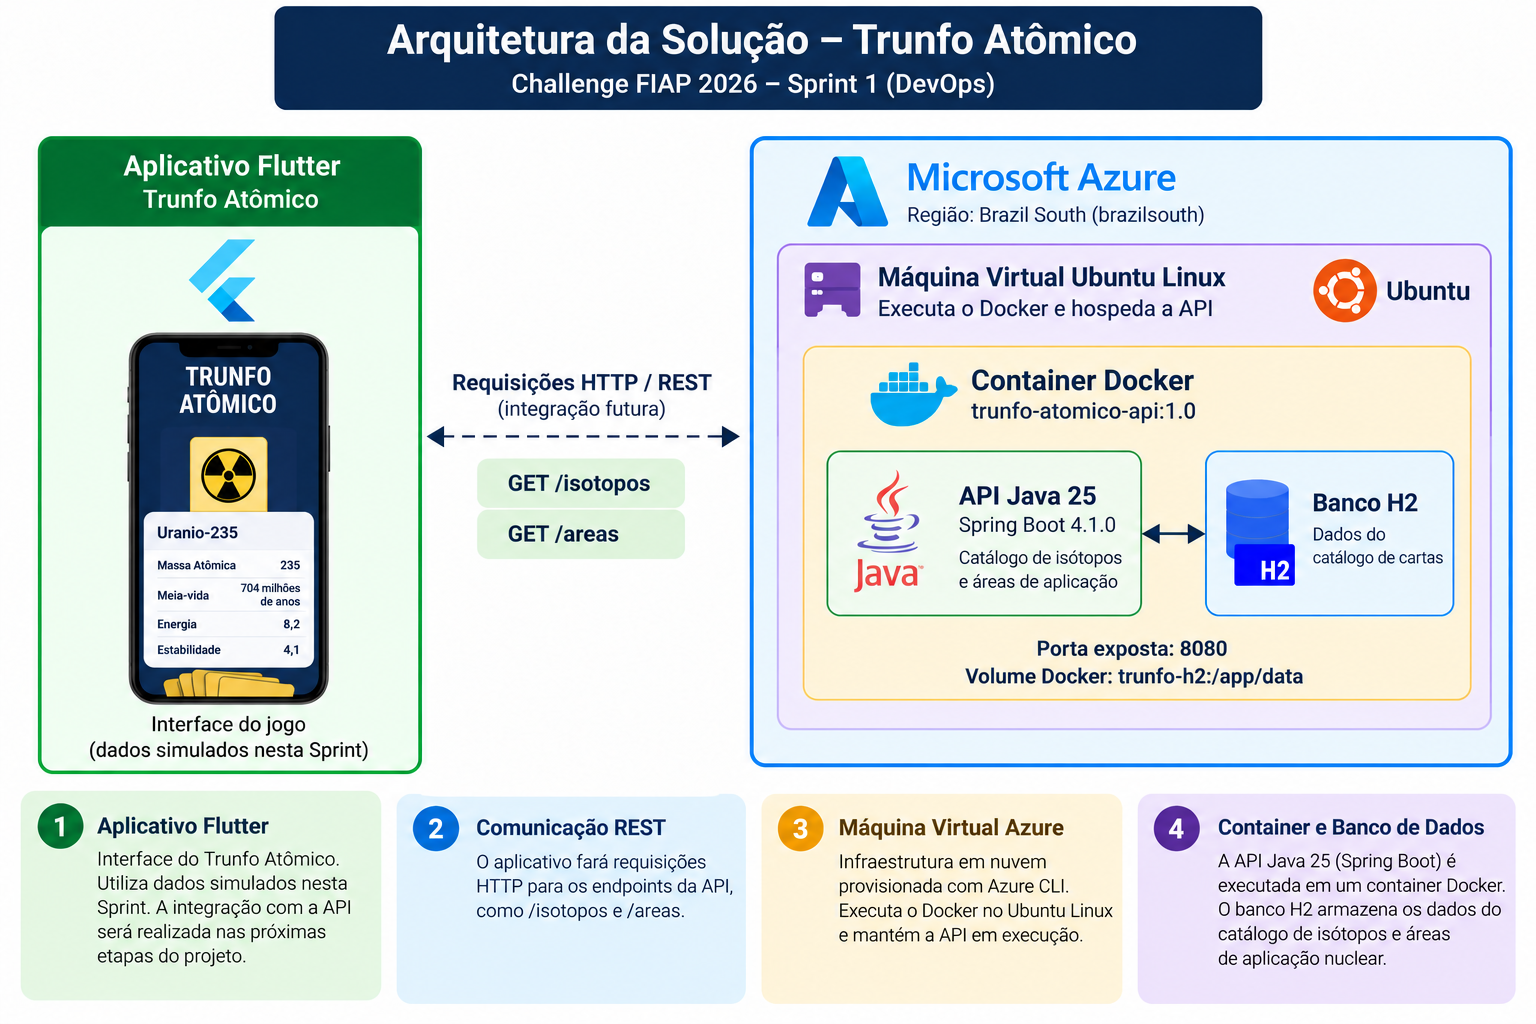
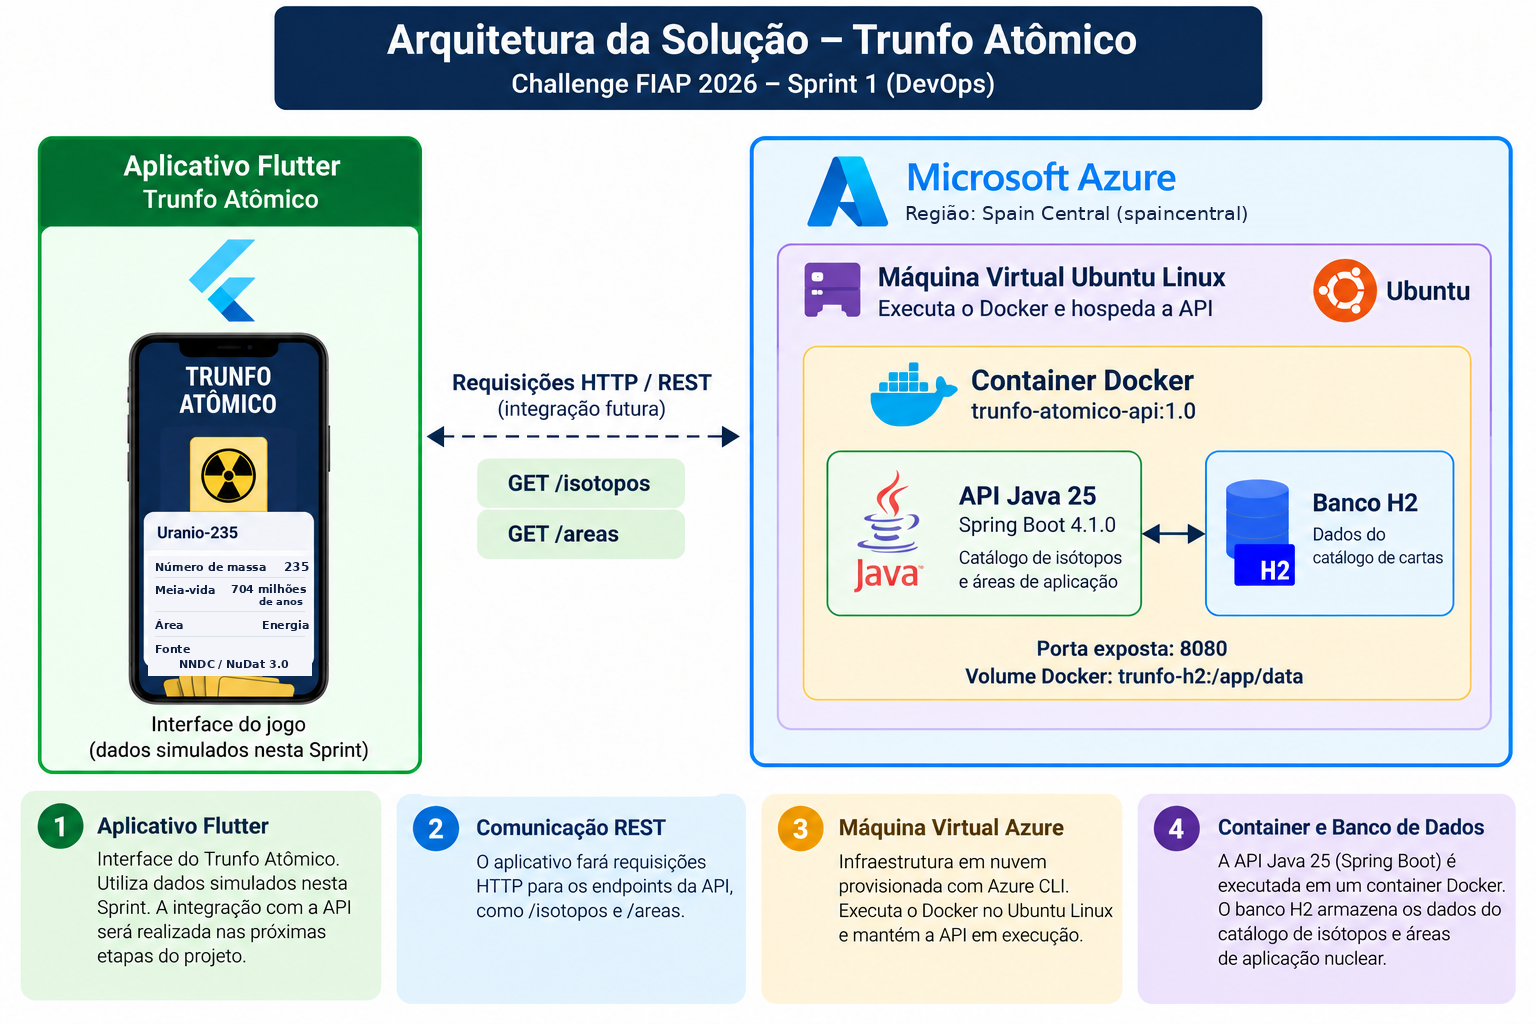
Finaliza documentacao DevOps e arquitetura corrigida

Changed region(s): [[0.0938, 0.5312, 0.2188, 0.6875], [0.5938, 0.1875, 0.8125, 0.2188]]

diff --git a/README.md b/README.md
@@ -1,84 +1,232 @@
-<img width="1891" height="1078" alt="image" src="https://github.com/user-attachments/assets/38181f44-462e-4ec5-94b7-f56212607426" /># Trunfo Atômico — DevOps
+# Trunfo Atômico — DevOps
 
-Challenge FIAP 2026 — Sprint 1
-
+**Challenge FIAP 2026 — Sprint 1**  
 **Parceiro:** AMAZUL / CTMSP  
-**Disciplina:** DevOps  
-**Responsável:** Thiago — RM: 567486
+**Disciplina:** DevOps Tools & Cloud Computing  
 **Turma:** 2TDSPR
+
+## Integrantes
+
+| Integrante | RM |
+|---|---|
+| Diego Paulino | 566841 |
+| Guilherme Dabul | 559901 |
+| Renan Lima | 568321 |
+| Ryan Mazali | 567168 |
+| Thiago Alexandre | 567486 |
 
 ## Sobre o projeto
 
-O Trunfo Atômico é um jogo educativo que utiliza cartas de isótopos radioativos para apresentar aplicações da tecnologia nuclear no cotidiano.
+O **Trunfo Atômico** é um jogo educativo de cartas sobre isótopos e aplicações da tecnologia nuclear. Nesta Sprint, a equipe desenvolveu componentes da solução e demonstrou a infraestrutura necessária para hospedar a API do catálogo.
 
-## Objetivo de DevOps
+A entrega de DevOps demonstra o **provisionamento de uma máquina virtual Linux no Microsoft Azure por Azure CLI**, a **containerização da API Java com Docker**, a disponibilização de endpoints REST por IP público e a **exclusão dos recursos** ao final dos testes.
 
-Demonstrar a containerização da API Java desenvolvida pelo grupo e sua execução em uma máquina virtual Ubuntu Linux hospedada no Microsoft Azure.
+## Arquitetura da solução
+
+![Arquitetura da solução Trunfo Atômico](arquitetura.png)
+
+- **Aplicativo Flutter:** interface do jogo. Nesta Sprint, utiliza **dados simulados**; a integração REST com a API é uma evolução prevista, não uma integração já concluída.
+- **Microsoft Azure:** VM `vm-trunfo-atomico`, Ubuntu Server 22.04 LTS, na região **Spain Central (`spaincentral`)**.
+- **Tamanho da VM:** `Standard_B2ls_v2` (2 vCPUs e 4 GiB de memória RAM).
+- **Docker:** executa a imagem `trunfo-atomico-api:1.0`, construída com Java 25.
+- **API:** Java 25 e Spring Boot, com endpoints `/areas` e `/isotopos`.
+- **Persistência:** banco de dados H2 em volume Docker `trunfo-h2`, montado em `/app/data`.
+- **Rede:** porta TCP `8080`, liberada temporariamente para o IP de origem autorizado durante a demonstração.
 
 ## Tecnologias
 
-- Java 25
-- Spring Boot 4.1.0
-- Docker
-- Azure Virtual Machines
-- Azure CLI
-- Ubuntu Linux
-- GitHub
-- Banco de dados H2
+Java 25 · Spring Boot · Maven · Docker Engine · Azure CLI · Azure Virtual Machines · Ubuntu Linux · H2 · GitHub
 
-## Arquitetura
+## Repositórios
 
-![Arquitetura do Trunfo Atômico](arquitetura.png)
+- **DevOps:** https://github.com/thiagoalexandre10/Trunfo-Atomico-DevOps
+- **API Java:** https://github.com/DiegoCPaulino/API-Trunfo-Atomico
 
-O aplicativo Flutter representa a interface do jogo, utilizando dados simulados nesta Sprint. A API Java fornece o catálogo de isótopos e é executada em Docker dentro de uma VM Azure.
+## Arquivos da entrega DevOps
 
-## Repositório da API
+| Arquivo | Finalidade |
+|---|---|
+| `provisionar.sh` | Automatiza a criação do grupo de recursos e da VM Azure e consulta o IP público. |
+| `Dockerfile` | Build multi-stage com Java 25: compila a API usando Maven e gera a imagem de execução. |
+| `.dockerignore` | Exclui arquivos desnecessários do contexto de build. |
+| `arquitetura.png` | Diagrama da arquitetura do projeto. |
+| `README.md` | Documenta a implantação, os testes e o encerramento dos recursos. |
 
-https://github.com/DiegoCPaulino/API-Trunfo-Atomico
+## 1. Pré-requisitos
 
-## Construção da imagem Docker
+- Uma assinatura Azure com permissão e cota disponíveis para criar uma VM na região selecionada.
+- Azure CLI instalado e autenticado (`az login`).
+- Bash disponível para executar o script `.sh` (por exemplo, Git Bash no Windows).
+- Git e acesso aos dois repositórios públicos.
 
-Copie o Dockerfile e o .dockerignore deste repositório para a raiz do projeto Java.
+> **Atenção:** criar recursos Azure pode gerar custos. Os comandos devem ser executados apenas em uma assinatura autorizada. A disponibilidade do tamanho escolhido depende da assinatura, da região e da capacidade do Azure.
 
-Execute:
+## 2. Provisionar a VM pelo Azure CLI
+
+No terminal **Git Bash** do Windows, a partir da pasta deste repositório:
 
 ```bash
-docker build -t trunfo-atomico-api:1.0 .
+az account show --output table
+bash provisionar.sh
 ```
 
-## Execução do container
+O script utiliza as configurações:
 
 ```bash
-docker volume create trunfo-h2
-
-docker run -d --name trunfo-api -p 8080:8080 -v trunfo-h2:/app/data trunfo-atomico-api:1.0
+RG="rg-trunfo-atomico"
+VM="vm-trunfo-atomico"
+LOCATION="spaincentral"
+SIZE="Standard_B2ls_v2"
+USER_NAME="azureuser"
 ```
 
-## Testes
+Verifique o resultado da criação e obtenha o IP público:
 
-Endpoints:
+```bash
+az vm list --resource-group rg-trunfo-atomico --show-details --output table
+az vm show -d --resource-group rg-trunfo-atomico --name vm-trunfo-atomico --query publicIps --output tsv
+```
 
-- GET /isotopos
-- GET /areas
+O script cria a VM com imagem Ubuntu 22.04 e gera chaves SSH caso necessário.
 
-## Azure
+## 3. Conectar à VM e instalar o Docker
 
-O provisionamento é realizado com o script `provisionar.sh`, utilizando Azure CLI.
+Substitua `IP_PUBLICO_DA_VM` pelo endereço retornado pelo comando anterior:
 
-A API é executada em uma máquina virtual Ubuntu Linux com Docker Engine instalado.
+```bash
+ssh azureuser@IP_PUBLICO_DA_VM
+```
 
-A porta de acesso à API deve ser liberada somente para a origem autorizada durante os testes.
+**Os comandos abaixo são executados dentro do Ubuntu, via SSH:**
 
-## Como Docker e Cloud Computing ajudam a solução?
+```bash
+sudo apt update
+sudo apt install -y ca-certificates curl git
+sudo install -m 0755 -d /etc/apt/keyrings
+sudo curl -fsSL https://download.docker.com/linux/ubuntu/gpg -o /etc/apt/keyrings/docker.asc
+sudo chmod a+r /etc/apt/keyrings/docker.asc
+```
 
-Docker permite empacotar a aplicação com suas dependências e executar a API de maneira padronizada.
+Configure o repositório oficial do Docker:
 
-Cloud Computing permite hospedar essa aplicação em infraestrutura remota, facilitando demonstrações, testes e futuras evoluções do sistema.
+```bash
+sudo tee /etc/apt/sources.list.d/docker.sources > /dev/null <<EOF2
+Types: deb
+URIs: https://download.docker.com/linux/ubuntu
+Suites: $(. /etc/os-release && echo "${UBUNTU_CODENAME:-$VERSION_CODENAME}")
+Components: stable
+Architectures: $(dpkg --print-architecture)
+Signed-By: /etc/apt/keyrings/docker.asc
+EOF2
 
-## Demonstração
+sudo apt update
+sudo apt install -y docker-ce docker-ce-cli containerd.io docker-buildx-plugin
+sudo docker --version
+sudo docker run --rm hello-world
+```
 
-**Vídeo:** https://www.youtube.com/watch?v=BNrjYQzG4n0
+A saída `Hello from Docker!` confirma a instalação funcional do Docker Engine.
 
-## Encerramento
+## 4. Construir a imagem e executar o container
 
-Após os testes, o grupo de recursos do Azure deve ser excluído. A exclusão precisa ser comprovada na gravação.
+Ainda dentro da VM, obtenha a API e os arquivos de containerização:
+
+```bash
+git clone https://github.com/DiegoCPaulino/API-Trunfo-Atomico.git
+cd API-Trunfo-Atomico
+curl -fL https://raw.githubusercontent.com/thiagoalexandre10/Trunfo-Atomico-DevOps/main/Dockerfile -o Dockerfile
+curl -fL https://raw.githubusercontent.com/thiagoalexandre10/Trunfo-Atomico-DevOps/main/.dockerignore -o .dockerignore
+```
+
+Construa a imagem Docker:
+
+```bash
+sudo docker build -t trunfo-atomico-api:1.0 .
+sudo docker images
+```
+
+Crie o volume persistente e inicie a API:
+
+```bash
+sudo docker volume create trunfo-h2
+sudo docker run -d --name trunfo-api -p 8080:8080 -v trunfo-h2:/app/data trunfo-atomico-api:1.0
+sudo docker ps
+sudo docker logs --tail 30 trunfo-api
+```
+
+Teste localmente **dentro da VM**:
+
+```bash
+curl -f http://localhost:8080/areas
+curl -f 'http://localhost:8080/isotopos?size=20'
+```
+
+O volume `trunfo-h2` armazena os dados persistentes do H2 separadamente do ciclo de vida do container.
+
+## 5. Liberar temporariamente a porta 8080
+
+Saia da sessão SSH (`exit`) para retornar ao terminal local com o Azure CLI.
+
+Identifique o grupo de segurança de rede (NSG) da VM:
+
+```bash
+az network nsg list --resource-group rg-trunfo-atomico --output table
+```
+
+No provisionamento demonstrado, o NSG recebeu o nome `vm-trunfo-atomicoNSG`.
+
+Crie uma regra para permitir **somente o IPv4 público atual do computador que realizará o teste**:
+
+```bash
+az network nsg rule create --resource-group rg-trunfo-atomico --nsg-name vm-trunfo-atomicoNSG --name PermitirTrunfoDemo --priority 1010 --direction Inbound --access Allow --protocol Tcp --source-address-prefixes "$(curl -4 -s https://api.ipify.org)/32" --destination-port-ranges 8080
+```
+
+Confira a regra:
+
+```bash
+az network nsg rule list --resource-group rg-trunfo-atomico --nsg-name vm-trunfo-atomicoNSG --output table
+```
+
+> A API é apresentada por HTTP para fins de demonstração. Este acesso não constitui uma configuração de produção; não exponha interfaces administrativas ou o console do banco de dados.
+
+## 6. Testar os endpoints pelo IP público
+
+Abra no navegador, substituindo `IP_PUBLICO_DA_VM` pelo IP da VM:
+
+| Recurso | Endereço |
+|---|---|
+| Áreas | `http://IP_PUBLICO_DA_VM:8080/areas` |
+| Isótopos | `http://IP_PUBLICO_DA_VM:8080/isotopos?size=20` |
+| Swagger UI, quando habilitado | `http://IP_PUBLICO_DA_VM:8080/swagger-ui/index.html` |
+
+A resposta é retornada em **JSON**, conforme o funcionamento de uma API REST. A documentação Swagger, quando disponível, permite consultar os endpoints de maneira interativa.
+
+## 7. Excluir os recursos ao final da demonstração
+
+Após registrar as evidências e confirmar que o grupo contém **apenas os recursos desta atividade**, execute no terminal local:
+
+```bash
+az resource list --resource-group rg-trunfo-atomico --output table
+az group delete --name rg-trunfo-atomico --yes
+az group exists --name rg-trunfo-atomico
+```
+
+O resultado esperado da última consulta é `false`, comprovando a exclusão do grupo.
+
+## Como o Docker e a computação em nuvem ajudam o projeto?
+
+O **Docker** reúne a API Java e suas dependências em uma imagem, reduzindo diferenças entre os ambientes de desenvolvimento e de execução. A mesma imagem pode ser testada localmente e implantada em uma VM Linux, enquanto o volume do H2 permite preservar os dados independentemente do container.
+
+A **computação em nuvem** oferece uma infraestrutura remota para disponibilizar a API, realizar testes de conectividade e ampliar a arquitetura nas próximas Sprints. Quando a integração REST for implementada, o aplicativo Flutter poderá consumir os mesmos endpoints do catálogo, em vez dos dados simulados utilizados nesta etapa.
+
+O uso de scripts Azure CLI também facilita a reprodução da infraestrutura e a exclusão controlada dos recursos ao fim de uma demonstração.
+
+## Vídeo da demonstração
+
+**YouTube — vídeo da entrega DevOps:** https://youtu.be/BNrjYQzG4n0
+
+**Visibilidade requerida:** Não listado.
+
+---
+
+**Challenge FIAP 2026 — Trunfo Atômico · DevOps · Sprint 1**
